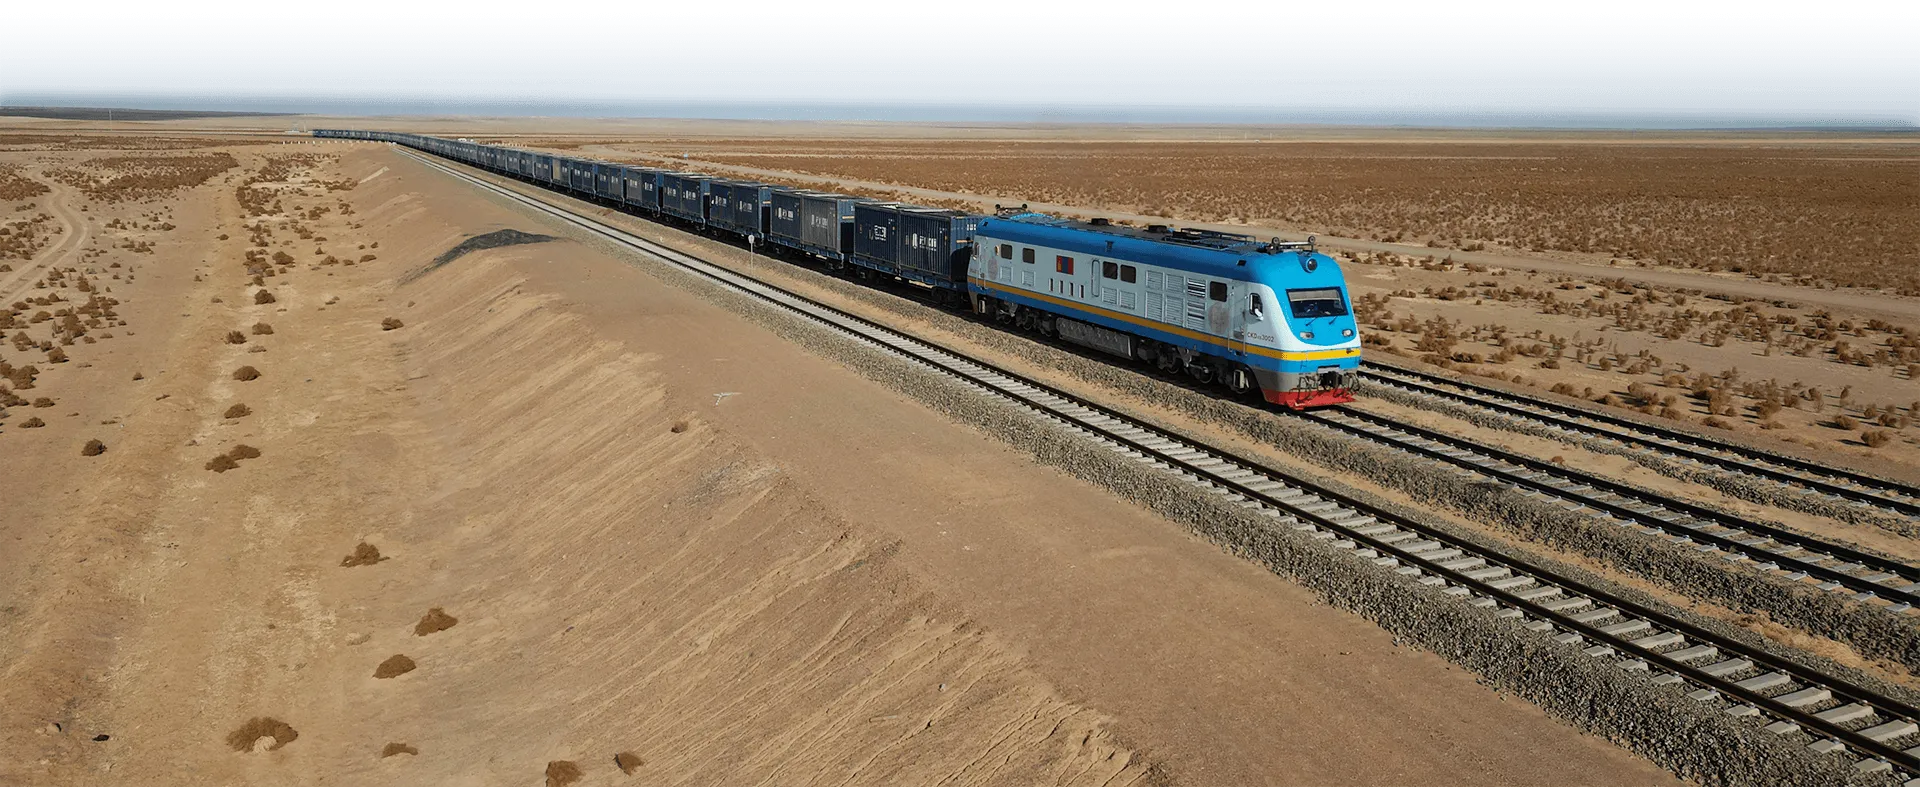
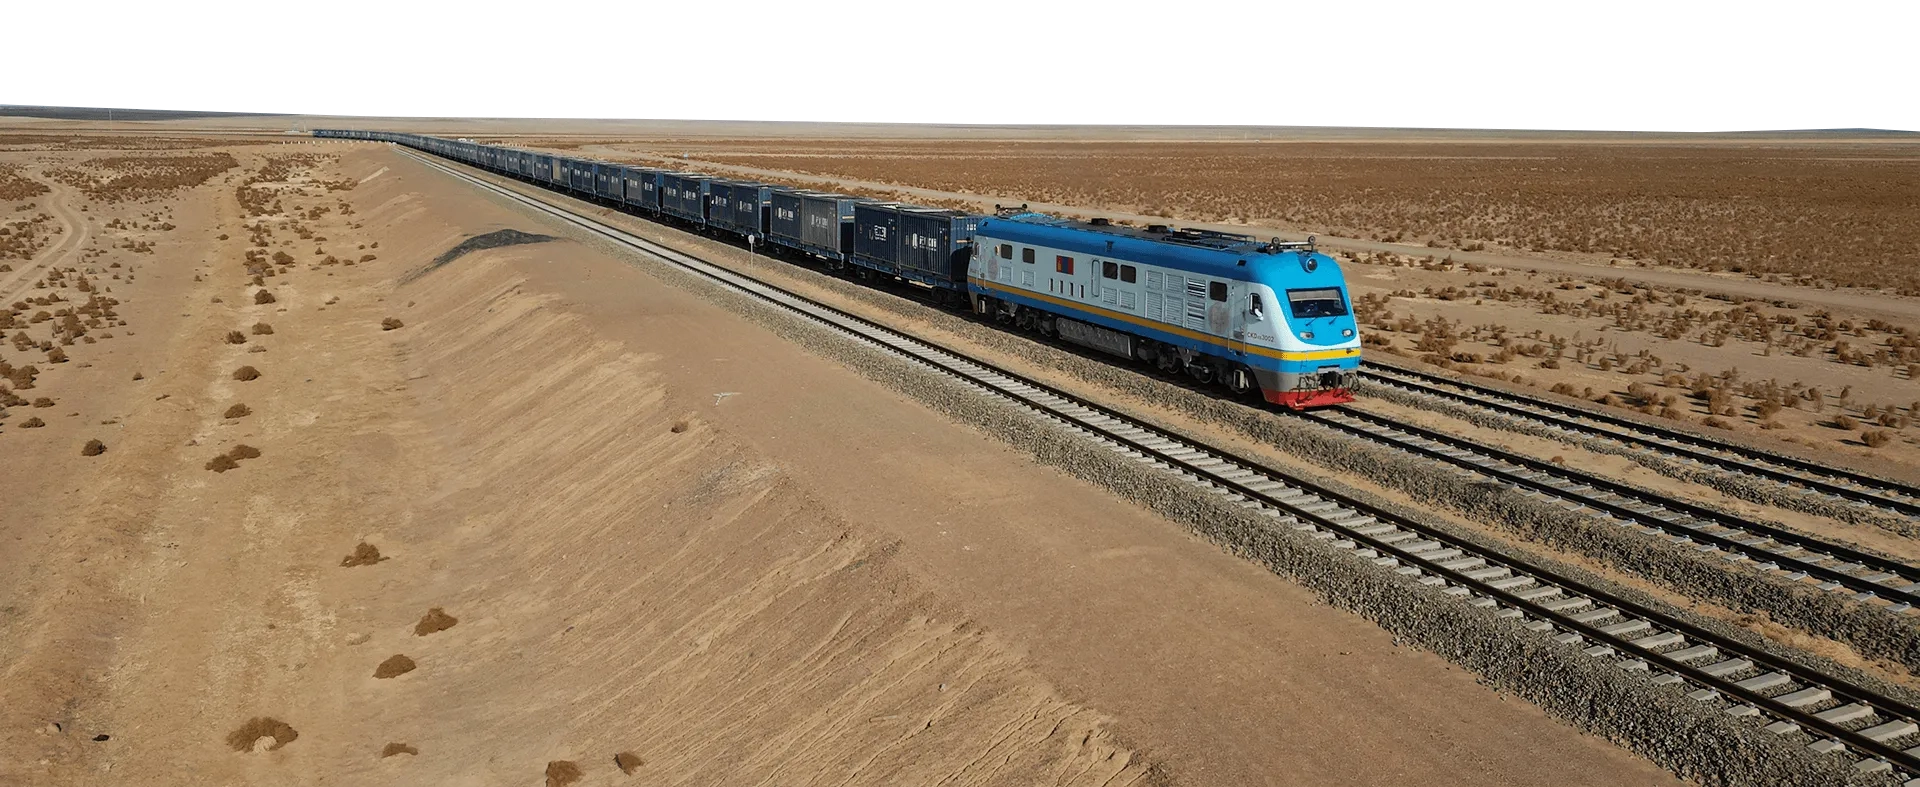
mobile

Changed region(s): [[0.0, 0.0915, 1.0, 0.183]]

diff --git a/assets/styles/media.css b/assets/styles/media.css
@@ -24,9 +24,10 @@
   .caption{padding-left:15px;padding-right: 15px;}
   .inner-qoute {margin: 0 20px;padding-bottom: 120px;}
   .section-landing{padding-left: 0;padding-right:0;padding-top: 120px;}
-  .section-title{margin-bottom: 40px;}
+  .section-title{position: relative;
+    display: inline-block;
+    margin: 40px auto ;left: 50%;transform: translateX(-50%);}
   .margin-160-bottom {  margin-bottom: 60px !important;}
-  .section-landing{min-height: 100vh;}
 
   /* landing */
   #section-landing{padding-top: 110px;min-height: 960px;}
@@ -50,14 +51,14 @@
   top: 3px;
   
 }
-.landing-bg-6{top:485px}
-.landing-bg-2{top:600px}
+.landing-bg-6{top:525px}
+.landing-bg-2{top:640px}  
 .landing-bg-4{top:700px}
 .landing-bg-5{top:900px}
 
 #section-landing .section-title-border{top:-20px}
   /* ss1 */
-  .ss3-graph1-img-wrap{width: 1020px;position: absolute;left: 80%;top: 10%;transform: translate(-50%,-50%);height: auto;}
+  .ss3-graph1-img-wrap{width: 1020px;position: absolute;left: calc(100% + 90px);top: 10%;transform: translate(-50%,-50%);height: auto;}
   .ss3-graph1-img{width: 100%;position: absolute;left: 0;top: 0;}
   .ss3-graph2-img{width: 240vw;position: absolute;left: 50%;top: 50%;transform: translate(-50%,-50%);}
   .ss3-graph1-overlay{opacity: 1;}
@@ -69,11 +70,16 @@
   .ss2-scroll-hints.active{opacity: 0;}
   
   .ss2-info-ball{width: 28px;height: 28px;}
-  .ss3-bg-2 img,.ss5-bg-2 img{height: 300px;width: auto;min-width: 0;}
-  .ss4-bg-2 img{height: 420px;width: auto;min-width: 0;}
-  .ss3-bg-2{top: calc(100vh - 230px);}
-  .ss4-bg-2{top: calc(100vh - 400px);}
-  .ss5-bg-2{top: calc(100vh - 290px);}
+
+    .section-landing{height: 800px;}
+  #section-4 .section-landing{min-height: auto;}
+
+  .ss3-bg-2 img{width: 180%;height: auto;min-width: 0;left: 50%;}
+  .ss5-bg-2 img{width: 250%;height: auto;min-width: 0;left: 45%;}
+  .ss4-bg-2 img{width: 140%;height: auto;min-width: 0;}
+  .ss3-bg-2{top: auto;bottom:0}
+  .ss4-bg-2{top: auto;bottom:0}
+  .ss5-bg-2{top: auto;bottom:0}
   .ss4-chart-title{margin-top: 40px;}
 
   /* ss3 info graph - show end state + pan on mobile */
@@ -137,18 +143,18 @@
   .ss4-bg-break-1{height: 810px ;width: 100%;  bottom: 600px;  left: 0;background-size: 100% 100%;}
 
   .section-transition-4-5 {
-    bottom: -100px;
-    width: 180%;
+bottom: -430px;
+    width: 110%;
     position: absolute;
     z-index: 9;
     pointer-events: none;
     background-size: 100% 100%;
-    height: 250px;
+    height: 840px;
     left: -10%;
-  }.section-transition-4-5 img{width: 100%;height: 100%;}
-.section-transition-4-5b{bottom:-100px;width: 100%;position: absolute;z-index: 9;pointer-events: none;background: url(../images/gobi-webp/bg-c2-3b.webp) center center no-repeat;background-size: 100% 100% ;height: 400px;mask-image: linear-gradient(to bottom, transparent 0%, black 20%, black 80%, transparent 100%);-webkit-mask-image: linear-gradient(to bottom, transparent 0%, black 20%, black 80%, transparent 100%);}
+  }.section-transition-4-5 img{width: 100%;}
+.section-transition-4-5b{bottom:-150px;width: 100%;position: absolute;z-index: 9;pointer-events: none;background: url(../images/gobi-webp/bg-c2-3b.webp) center center no-repeat;background-size: 100% 100% ;height: 400px;mask-image: linear-gradient(to bottom, transparent 0%, black 20%, black 80%, transparent 100%);-webkit-mask-image: linear-gradient(to bottom, transparent 0%, black 20%, black 80%, transparent 100%);}
   .ss2-info-graph-1 .ss5-map-object img{width: 150px;margin-left: 35px !important;margin-bottom: 10px;}
-
+.ss4-info-graph-3::before{height: 300px;}
     .cloud-1{top: 80px;  width: 310px;}
 
 .section-transition-3-4{height: 260px;bottom: -100px;}
@@ -156,6 +162,9 @@
   /* ss6 */
   .cloude-bg{padding-bottom: 200px;}
   .footer-img{bottom: -100px; width: 100%;}
+.cloude-bg{background: url(../images/gobi-webp/ss5-bg3-mobile.webp) center center no-repeat;
+    background-size: auto;
+  background-size: cover;;}
   
   /* owl-wrapper responsive */
   .owl-carousel{margin-left: 0;width: 100%;}
@@ -170,6 +179,9 @@
   .ss5-txt-1-top,.ss5-txt-1-bottom,.ss5-txt-2-top,.ss5-txt-2-bottom,.ss5-txt-3-top,.ss5-txt-3-bottom,.ss5-txt-4-top,.ss5-txt-4-bottom{opacity: 1;}
   .ss5-txt-4-bottom{bottom:85%}
   .cloude-bg::before{top:-300px;height: 480px;background-size: 100% 100%;}
+
+
+  .footer-credit{padding-top: 40px;}
 }
 
 @media only screen and (min-width: 769px) and (max-width: 1023px) {

diff --git a/assets/styles/style.css b/assets/styles/style.css
@@ -75,7 +75,7 @@ main{background: #EEE;}
 
 
 /* section 2 */
-#section-2{background: url(../images/gobi-webp/ss1-bg.webp) top center repeat;background-size: 100% auto;position: relative;padding-bottom: 300px;}
+#section-2{background: url(../images/gobi-webp/ss1-bg.webp) top center repeat;background-size: 100% auto;position: relative;padding-bottom: 600px;}
 .ss2-bg-1{position: absolute;width: 100%;height: 420px;  top: -240px;left: 0;background: url(../images/gobi-webp/landing-bg3.webp) center center repeat-x;background-size: 1280px 100%;min-width: 1280px;left: 50%;transform: translateX(-50%);}
 .inner-qoute-1::after{position: absolute;content: '　';width: 160px;height: 160px;background: #FFF url(../images/gobi-webp/img-profile-photo1.webp) center center no-repeat;background-size: 160px ;bottom:-25px;right:95px;}
 
@@ -476,8 +476,8 @@ main{background: #EEE;}
 .ss4-chart-truck{position: absolute;top:165px;left: 120px;transform: translateX(-500px);}
 
 .section-transition-4-5{width: 100%;position: absolute;z-index: 9;bottom:-180px;pointer-events: none;}
-.section-transition-4-5b{width: 100%;position: absolute;z-index: 9;bottom:-150px;pointer-events: none;background: url(../images/gobi-webp/bg-c2-3b.webp) center center no-repeat;background-size: 100% auto;width: 100%;height: 600px;mask-image: linear-gradient(to bottom, transparent 0%, black 20%, black 80%, transparent 100%);-webkit-mask-image: linear-gradient(to bottom, transparent 0%, black 20%, black 80%, transparent 100%);}
-
+.section-transition-4-5b{display: none;}
+.ss4-info-graph-3::before{content:"　";width: 100%;position: absolute;z-index: 9;bottom:-150px;pointer-events: none;background: url(../images/gobi-webp/ss5-bg3.webp) bottom center no-repeat;background-size: 100% auto;width: 100%;height: 800px;mask-image: linear-gradient(to bottom, transparent 0%, black 20%, black 80%, transparent 100%);-webkit-mask-image: linear-gradient(to bottom, transparent 0%, black 20%, black 80%, transparent 100%);}
 
 
 /* section 5 */
@@ -525,7 +525,7 @@ main{background: #EEE;}
 .ss5-block-4{position: absolute;  z-index: 12; left: 52.2%;  bottom: 8vh;  width: 57.7%;   transform: scale(2) translateX(1000px); transform-origin: bottom; opacity: 0;}
 .ss5-block-train{position: absolute;width: 100%;left: -36%;bottom: 8vh;z-index: 12; transform: translateX(-70%);}
 .ss5-track{position: absolute;width: 100%;left: 0;bottom: calc(8vh - 2px);z-index: 13;height: 3px;background: #00b1f3;}
-.ss5-track-img{position: absolute;width: 100%;left: 0;bottom: calc(8vh - 4px);z-index: 13;height: 3px;background: url(../images/gobi-webp/ss5-track.webp) center center no-repeat;background-size: contain;}
+.ss5-track-img{position: absolute;width: 100%;left: 0;bottom: calc(8vh - 4px);z-index: 13;height: 3px;background: url(../images/gobi-webp/ss5-track.webp) center center repeat;background-size: contain;}
 .ss5-track-img-top{width: 100%;height: 110vh;position: absolute;left: 0;top: 0px;z-index: -1;background: url(../images/gobi-webp/sandbg.webp) center center no-repeat;background-size: 100%;mask-image: linear-gradient(to bottom, transparent 0%, black 20%, black 80%, transparent 100%);-webkit-mask-image: linear-gradient(to bottom, transparent 0%, black 20%, black 80%, transparent 100%);overflow: hidden;}
 .ss5-sky{position: absolute;width: 400%;height: 100%;top: 0;left: 0;background: url(../images/gobi-webp/ss5-sky.webp) center center no-repeat;background-size: cover;z-index: 1;}
 

diff --git a/assets/scripts/scrollss.js b/assets/scripts/scrollss.js
@@ -112,7 +112,7 @@ function initMainCode() {
         triggerElement: '#section-landing',
         triggerHook: 0,
         duration: "100%",
-        offset:1200
+        offset: isMobile ? 700 : 1200
     })
     .setTween(landingTruckTimeline)
     .addTo(controller);
@@ -253,13 +253,15 @@ function initMainCode() {
     
     // Parallax effect for section 3 backgrounds
     // Pin section 3 landing
-    new ScrollMagic.Scene({
-        triggerElement: '#section-3 .section-landing',
-        triggerHook: 0,
-        duration: 800
-    })
-    .setPin('#section-3 .section-landing')
-    .addTo(controller);
+    if (!isMobile) {
+        new ScrollMagic.Scene({
+            triggerElement: '#section-3 .section-landing',
+            triggerHook: 0,
+            duration: 800
+        })
+        .setPin('#section-3 .section-landing')
+        .addTo(controller);
+    }
     
     var ss3Bg1Timeline = gsap.timeline();
     ss3Bg1Timeline.to('.ss3-bg-1', {
@@ -370,7 +372,7 @@ function initMainCode() {
         // Mobile: skip overlays and scale, just pan the image from center to right
         ss3Graph1Timeline.fromTo('.ss3-graph1-img-wrap',
             { x: 0 },
-            { x: '-300px', ease: Linear.easeNone }
+            { x: '-50%', ease: Linear.easeNone }
         );
     } else {
         // Step 1: Show overlay 2 and 3 together
@@ -485,13 +487,15 @@ function initMainCode() {
     .addTo(controller);
     
     // Pin section 4 landing
-    new ScrollMagic.Scene({
-        triggerElement: '#section-4 .section-landing',
-        triggerHook: 0,
-        duration: 800
-    })
-    .setPin('#section-4 .section-landing')
-    .addTo(controller);
+    if (!isMobile) {
+        new ScrollMagic.Scene({
+            triggerElement: '#section-4 .section-landing',
+            triggerHook: 0,
+            duration: 800
+        })
+        .setPin('#section-4 .section-landing')
+        .addTo(controller);
+    }
     
     // Parallax effect for section 4 backgrounds
     var ss4Bg1Timeline = gsap.timeline();
@@ -534,13 +538,15 @@ function initMainCode() {
     .addTo(controller);
     
     // Pin section 5 landing
-    new ScrollMagic.Scene({
-        triggerElement: '#section-5 .section-landing',
-        triggerHook: 0,
-        duration: 800
-    })
-    .setPin('#section-5 .section-landing')
-    .addTo(controller);
+    if (!isMobile) {
+        new ScrollMagic.Scene({
+            triggerElement: '#section-5 .section-landing',
+            triggerHook: 0,
+            duration: 800
+        })
+        .setPin('#section-5 .section-landing')
+        .addTo(controller);
+    }
     
     // Parallax effect for section 5 backgrounds
     var ss5Bg1Timeline = gsap.timeline();

diff --git a/index.html b/index.html
@@ -347,7 +347,7 @@ The Khangi rail line to Mandal is one of the major infrastructure projects highl
                 </div>
               </div>
             </div>
-            <div class="section-transition-3-4"><img src="assets/images/gobi-webp/bg-c2-3.webp" alt="" style="position: absolute;top: 70%;left: 50%;transform: translate(-50%, -50%);width: 100%;"></div>
+            <div class="section-transition-3-4"><img src="assets/images/gobi-webp/bg-c2-4.webp" alt="" style="position: absolute;bottom: 0%;left: 50%;transform: translate(-50%,0 );width: 100%;height: 100%;"></div>
 
             </section>
 
@@ -518,7 +518,7 @@ The coal then has to be offloaded at Mongolia’s Gashuunsukhait terminal to be 
               </div>
             </div>
 
-            <div class="section-transition-3-4"><img src="assets/images/gobi-webp/bg-c2-3.webp" alt="" style="position: absolute;top: 70%;left: 50%;transform: translate(-50%, -50%);width: 100%;"></div>
+            <div class="section-transition-3-4"><img src="assets/images/gobi-webp/bg-c2-4.webp" alt="" style="position: absolute;bottom: 0%;left: 50%;transform: translate(-50%,0 );width: 100%;height: 100%;"></div>
 
           </section>     
 
@@ -568,12 +568,12 @@ Erdenes Tavantolgoi is producing 30 million tonnes of coal there annually, but t
             </div>
 
             <div class="half-section-block margin-20-bottom">
-	               <div class="half-left-block" style="background: #CCC">
+	               <div class="half-left-block" >
 		               <div class="pair-left pair-inner">
 		                 <video src="assets/video/DJI_0216_edit2.mp4" autoplay muted loop playsinline style="width: 100%; height: 100%; object-fit: cover;"></video>
 		               </div>
 	               </div>
-	               <div class="half-right-block" style="background: #EEE">
+	               <div class="half-right-block" >
 		               <div class="pair-right pair-inner">
 		                 <video src="assets/video/DJI_0223_edit2.mp4" autoplay muted loop playsinline style="width: 100%; height: 100%; object-fit: cover;"></video>
 		               </div>
@@ -701,7 +701,7 @@ For now, trucks are being used as a stopgap solution, travelling between the las
 
             <div class="section-transition-4-5">
 
-              <img src="assets/images/gobi-webp/bg-c2-3.webp" alt="" width="100%">
+              <img src="assets/images/gobi-webp/bg-c2-3b.webp" alt="" width="100%">
 
             </div>
 
